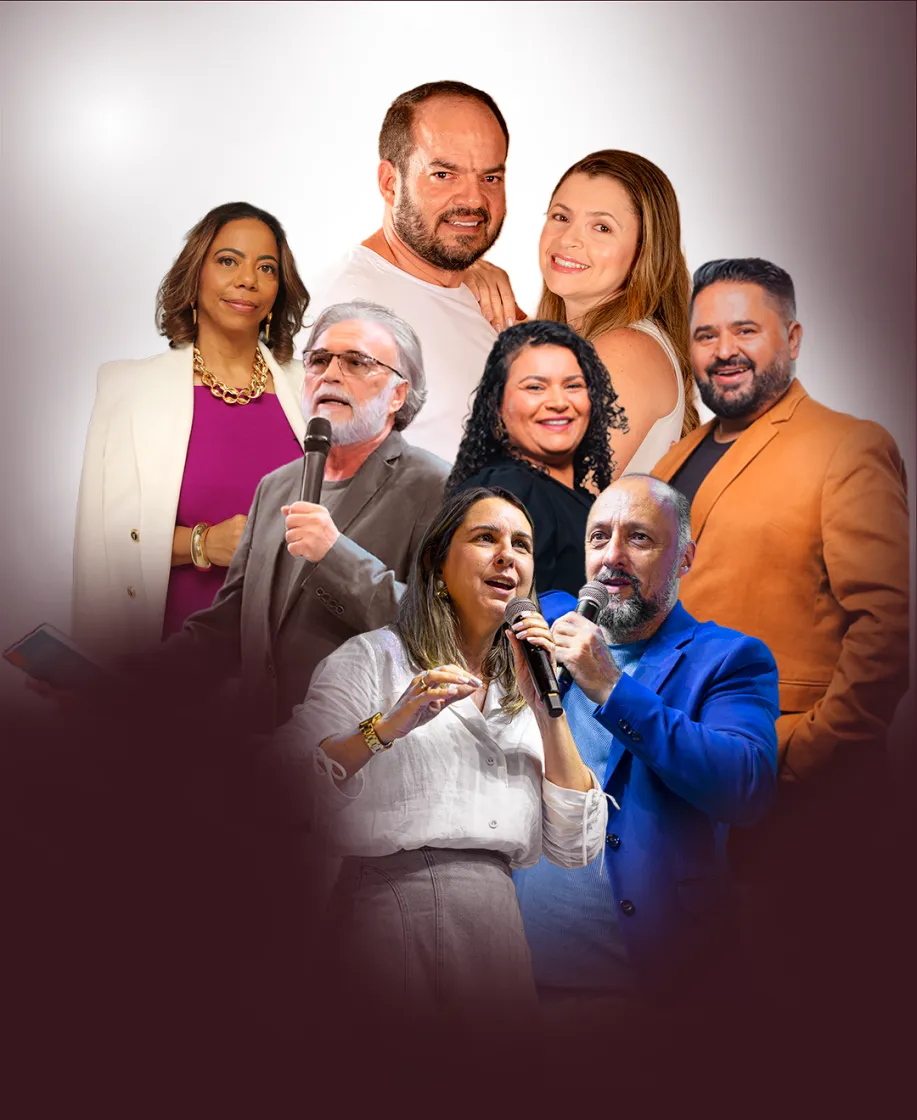
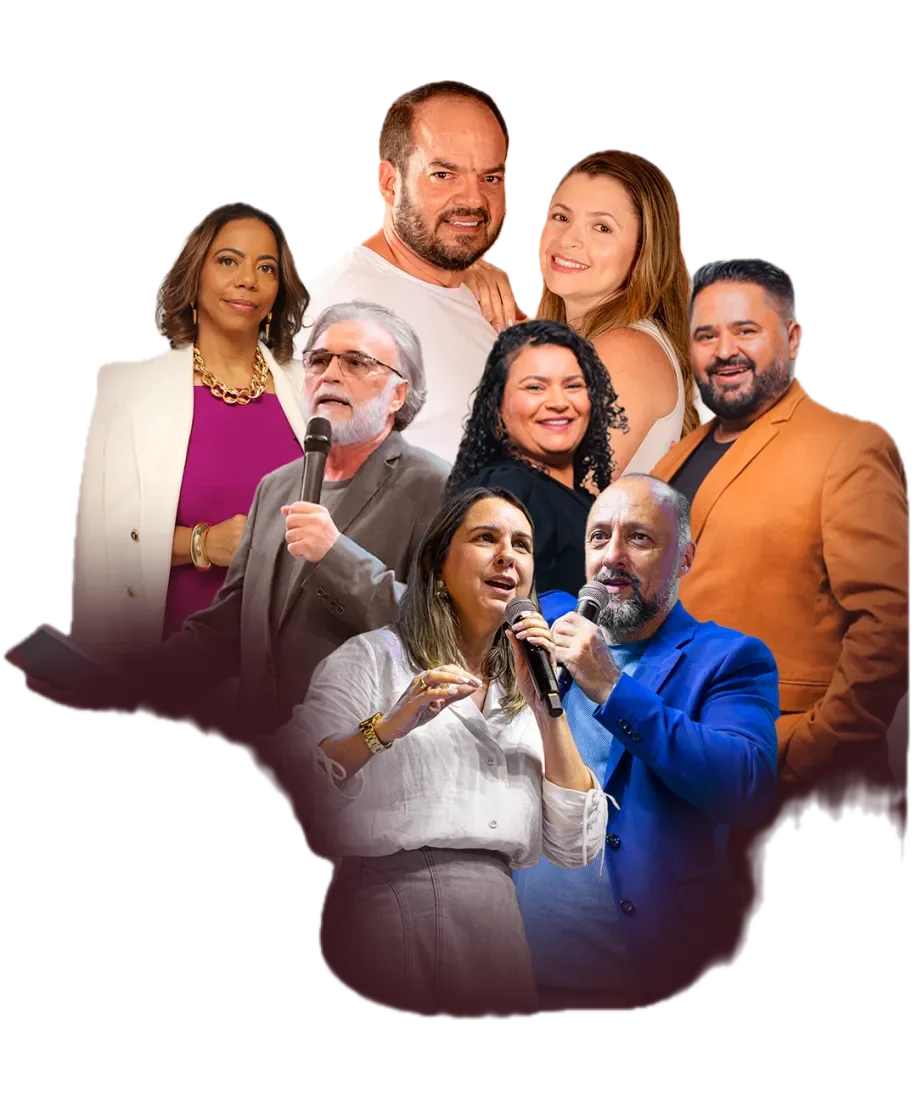
Hero: foto de grupo com fundo transparente (recorte sobre arte do designer), maior (scale 1.3) e assentada no fim da seção com esvaecimento na base; remover mix-blend-mode que não funcionava

diff --git a/index.html b/index.html
@@ -562,7 +562,7 @@ html { scrollbar-width: none; -ms-overflow-style: none; }
   align-items: flex-end;
   justify-content: flex-start;
   position: relative;
-  transform: scale(1.0);
+  transform: translateY(8%) scale(1.3);
   transform-origin: bottom left;
 }
 
@@ -584,7 +584,8 @@ html { scrollbar-width: none; -ms-overflow-style: none; }
   object-fit: contain;
   object-position: bottom left;
   display: block;
-  mix-blend-mode: multiply;
+  -webkit-mask-image: linear-gradient(to bottom, #000 68%, transparent 100%);
+  mask-image: linear-gradient(to bottom, #000 68%, transparent 100%);
   animation: heroFotoEntrada 1s cubic-bezier(0.22, 1, 0.36, 1) 0.35s both;
 }
 
@@ -3103,8 +3104,8 @@ button.reel-facade { border: none; background: none; padding: 0; cursor: pointer
     z-index: 2;
     pointer-events: none;
   }
+  .hero-foto-frame { transform: none; }
   .hero-foto {
-    mix-blend-mode: normal;
     width: 96%;
     height: auto;
     max-height: 100%;
